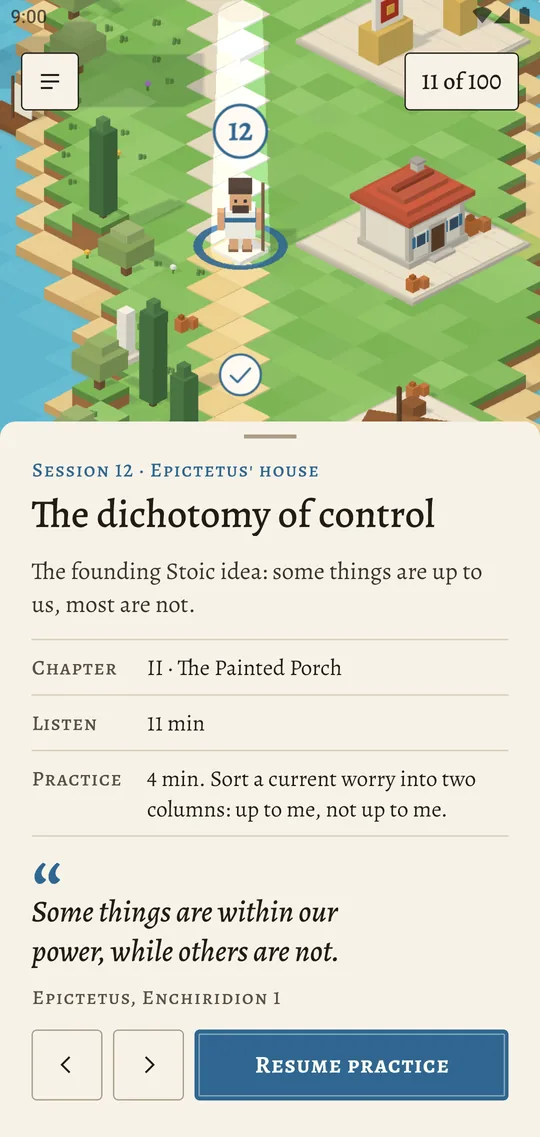
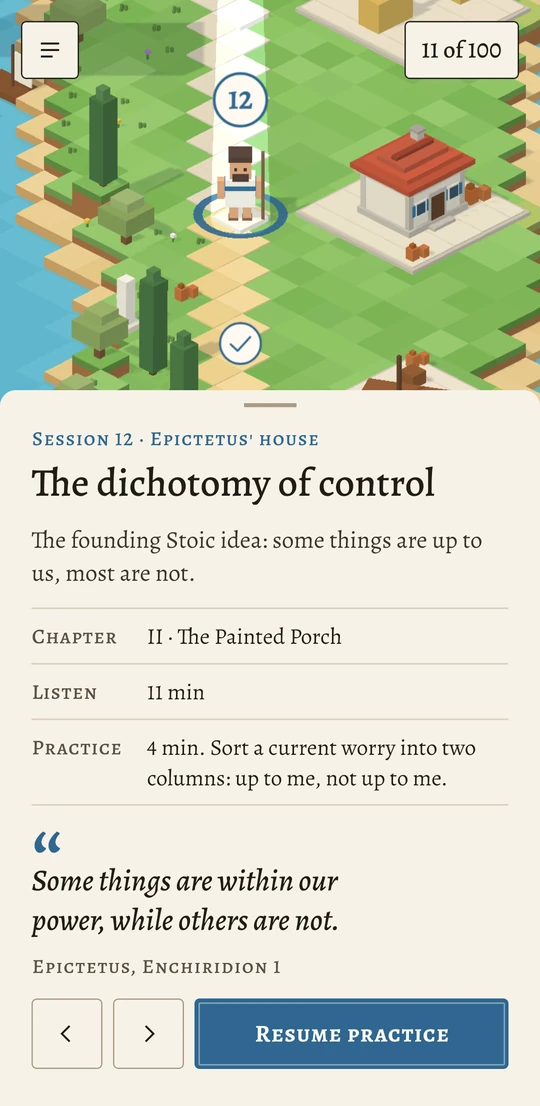
A Wiser Way: phone screens without the status bar

Changed region(s): [[0.0, 0.0, 1.0, 0.7378], [0.0593, 0.7378, 0.9481, 0.9837]]

diff --git a/a-wiser-way/index.html b/a-wiser-way/index.html
@@ -46,15 +46,15 @@
       <h2 id="how-title">Three parts, about ten minutes</h2>
       <div class="steps">
         <figure class="step">
-          <div class="phone"><img src="img/player.webp" width="540" height="1137" loading="lazy" alt="The player for session 1, Why philosophy is a way of life, with story, idea and reflection parts."></div>
+          <div class="phone"><img src="img/player.webp" width="540" height="1106" loading="lazy" alt="The player for session 1, Why philosophy is a way of life, with story, idea and reflection parts."></div>
           <figcaption><span class="num">1</span><strong>A story</strong>A real scene from a real life: Socrates refusing to stop asking questions, Zeno after his shipwreck, Zhuangzi's useless tree.</figcaption>
         </figure>
         <figure class="step">
-          <div class="phone"><img src="img/card.webp" width="540" height="1137" loading="lazy" alt="The session card for The dichotomy of control, with a quote from Epictetus."></div>
+          <div class="phone"><img src="img/card.webp" width="540" height="1106" loading="lazy" alt="The session card for The dichotomy of control, with a quote from Epictetus."></div>
           <figcaption><span class="num">2</span><strong>The idea</strong>One surprising insight, in plain words, with the picture the thinker used to explain it.</figcaption>
         </figure>
         <figure class="step">
-          <div class="phone"><img src="img/reflect.webp" width="540" height="1137" loading="lazy" alt="A practice that sorts a worry into what is up to me and what is not."></div>
+          <div class="phone"><img src="img/reflect.webp" width="540" height="1106" loading="lazy" alt="A practice that sorts a worry into what is up to me and what is not."></div>
           <figcaption><span class="num">3</span><strong>A practice</strong>A small exercise that grows out of the idea, and a few lines in your journal.</figcaption>
         </figure>
       </div>
@@ -73,7 +73,7 @@
         <h2 id="journal-title">Your own words, kept on your phone</h2>
         <p>In session 10 you write your first definition of a good life. At the summit, you come back to it and see what changed. Everything you write stays on your device.</p>
       </div>
-      <div class="phone small"><img src="img/journal.webp" width="540" height="1137" loading="lazy" alt="A saved journal entry: one person's first definition of a good life."></div>
+      <div class="phone small"><img src="img/journal.webp" width="540" height="1106" loading="lazy" alt="A saved journal entry: one person's first definition of a good life."></div>
     </section>
 
     <section class="promise" aria-labelledby="promise-title">

diff --git a/a-wiser-way/landing.css b/a-wiser-way/landing.css
@@ -40,7 +40,7 @@ main, .hero { position: relative; z-index: 1; }
 .how { text-align: center; }
 .steps { display: grid; grid-template-columns: repeat(3, 1fr); gap: clamp(20px, 3vw, 44px); margin-top: 48px; text-align: left; }
 .step { margin: 0; }
-.phone { border-radius: 28px; padding: 9px; background: var(--ink); box-shadow: 0 24px 60px rgba(60,48,30,.22); aspect-ratio: 558 / 1155; }
+.phone { border-radius: 28px; padding: 9px; background: var(--ink); box-shadow: 0 24px 60px rgba(60,48,30,.22); aspect-ratio: 558 / 1124; }
 .phone img { display: block; width: 100%; height: 100%; object-fit: cover; border-radius: 19px; background: var(--paper); }
 .step figcaption { margin-top: 22px; color: var(--ink2); font-size: 19px; }
 .step strong { display: block; color: var(--ink); font-size: 24px; margin: 2px 0 4px; }
